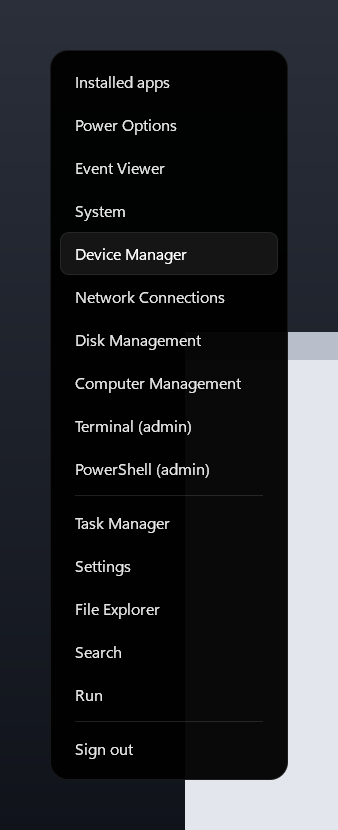
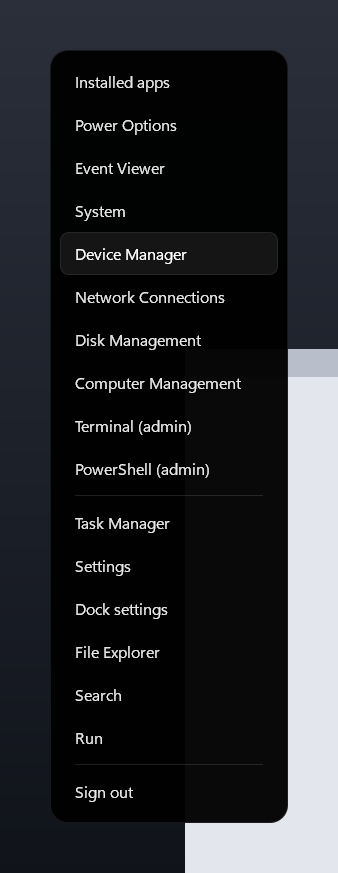
settings: preview PNGs per page, README screenshots, release notes
Claude-Session: https://claude.ai/code/session_01FHR79QShux4vrQ2um6WQC7

diff --git a/src/preview.rs b/src/preview.rs
@@ -7,6 +7,8 @@
 //! build with `DOCK_NO_MANIFEST=1` (manifest without `requireAdministrator`).
 //!
 //! Files produced for each preview: `<name>.png` (DPI 120) and `<name>_96.png` (DPI 96).
+//! The Settings window pages are `settings_<page>.png` (DPI 144), `settings_<page>_96.png` (DPI 96) and
+//! `settings_<page>_it.png` (144, Italian).
 //! Errors go to stderr (the async logger is not started in this mode).
 //!
 //! HOOKs used in other people's files (marked `PREVIEW-HOOK`): `render::snapshot_pixels`,

diff --git a/.github/release-notes/v1.4.0.md b/.github/release-notes/v1.4.0.md
@@ -1,4 +1,4 @@
-Changes since [1.3.0](https://github.com/ops-software/mini-oled-dock/releases/tag/v1.3.0): security and stability fixes from a full review of the code added since 1.0.0.
+Changes since [1.3.0](https://github.com/ops-software/mini-oled-dock/releases/tag/v1.3.0): security and stability fixes from a full review of the code added since 1.0.0, a self-updater, a battery module and a new Settings window.
 
 ### Fixes
 
@@ -15,6 +15,35 @@ Changes since [1.3.0](https://github.com/ops-software/mini-oled-dock/releases/ta
 - **Tray menu placement can no longer stall the tray.** A tray menu that takes too long to place no longer blocks the other tray icons.
 - **`--install` waits for the old watchdog.** The new copy starts only after the old watchdog has stopped, so two watchdogs do not run at the same time.
 
+### Updater
+
+- **Self-updater.** The dock checks GitHub Releases once a day for a newer version. The check makes one request to api.github.com and changes nothing else: when a newer release exists, an orange dot with a count shows on Settings in the power popup, and the Updates page of the Settings window shows the details (check now, release notes, update now). It is on by default (`"update_check": true`; set it to `false` to turn the check off).
+- **Automatic install is off by default.** With `"update_auto_install": true` the dock downloads the release into the admin-only folder `%ProgramData%\mini-oled-dock\update\<tag>\`, checks its SHA-256 and its own `--version`, and runs `--install --quiet` when no popup is open and no fullscreen app is in front. No UAC prompt; the dock restarts from the new copy. The exe is not code-signed: trust rests on HTTPS to github.com and the hash published with the same release.
+- **First step from 1.3.0 or 1.0.0.** Run `dock.exe --install` once from the 1.4.0 exe. Later releases can then reach you through the dock itself.
+- **Add/Remove Programs and real uninstall.** `--install` registers the dock in Add/Remove Programs. `--uninstall --remove` stops the dock, restores the taskbar and deletes the installed copy (a file still in use goes at the next restart); it keeps your settings. `--purge-data` also deletes the data folder.
+- **Installs are atomic and always start the dock.** The new exe is written as `dock.exe.new` and moved over the old one in one step. `--install` waits up to 35 s for the old dock and its watchdog to exit, then starts the new copy (`--no-relaunch` skips the start).
+- **Scripting.** `--quiet` shows no message box, `--version` prints `mini-oled-dock X.Y.Z`, and the exe carries a version resource. Exit codes: 0 success, 1 failure, 2 bad arguments, 3 the running dock could not be stopped.
+- **Diagnostics.** `--update-check` makes one check and prints the result. `--update-install <tag>` verifies and installs a release already staged in its `update\<tag>\` folder, and accepts no other path.
+
+### Battery
+
+- **A battery module for laptops.** An Apple-style battery icon in the bar: the fill follows the charge, a bolt shows while charging, and the percentage sits beside the icon or inside it. The fill is red under 20 % and orange at 10 % and below; while plugged in it is white. The module can be dragged like the others and follows `module_size`.
+- **Popup and click.** Left click opens a popup with the charge, the state (charging, on battery, fully charged, plugged in), the time remaining on battery and the active power plan (Power saver, Balanced or High performance), plus a "Power & battery settings" link. Right click opens `ms-settings:batterysaver` directly.
+- **Options.** `show_battery` is `"auto"` by default (shown only when Windows reports a battery), or `true` / `false`. `battery_percent` (default `true`) shows the percentage and `battery_percent_inside` (default `false`) draws it inside the icon. They are on the Modules page of the Settings window.
+- **A desktop PC sees no change.** With `"auto"` nothing is created on a machine without a battery: no module, no timer.
+- **Cost.** The charge is read every 30 s only while the bar is visible, plus instantly when the charger is plugged in or out. No thread.
+- **Known limitation.** The time to full charge is not shown: Windows only reports the time remaining on battery.
+
+### Settings window
+
+The settings popup had become too full for its size. It is replaced by a real window: power button → **Settings**, Start quick links → **Dock settings**, or `dock.exe --settings`.
+
+- Resizable, dark title bar in the bar's background colour, left navigation: **Appearance** (live preview of the bar, colour, opacity, sizes, language), **Bar**, **Start**, **Modules** (with the new **Battery** group and the tray icon chooser inline), **Screen**, **Updates** (check, release notes, update now, automatic check and install), **About** (memory, data folder, log, exit the dock).
+- Every change still applies at once and is saved to `config.json`. The window remembers its size (`settings_window_size`).
+- `Esc` closes, `Tab` moves between the navigation and the page, `Up`/`Down` change page, the wheel scrolls. The wheel no longer steps a slider under the pointer: it scrolls the page.
+- Nothing of the window stays in memory once it is closed.
+- Automatic install never starts while the window is open.
+
 ### If you are updating from 1.0.0
 
 - **Start button on by default.** Since 1.1.0 a Start button is shown at the left of the bar (the Start button setting, or `"show_start_button": false` in `config.json`). A config file that does not mention it gets the new default.
@@ -29,22 +58,3 @@ Requires Windows 11. Download `dock.exe` and run it from a terminal:
 ```
 
 It asks for administrator rights, copies itself to `%ProgramFiles%\mini-oled-dock` and starts with Windows. To update, run `--install` from the new `dock.exe`: the running dock is stopped and restarted from the new copy. Settings are kept.
-
-### Updates
-
-- **Self-updater.** The dock checks GitHub Releases once a day for a newer version. The check makes one request to api.github.com and changes nothing else: when a newer release exists, an orange dot with a count shows on Settings in the power popup. It is on by default (`"update_check": true`; set it to `false` to turn the check off).
-- **Automatic install is off by default.** With `"update_auto_install": true` the dock downloads the release into the admin-only folder `%ProgramData%\mini-oled-dock\update\<tag>\`, checks its SHA-256 and its own `--version`, and runs `--install --quiet` when no popup is open and no fullscreen app is in front. No UAC prompt; the dock restarts from the new copy. The exe is not code-signed: trust rests on HTTPS to github.com and the hash published with the same release.
-- **First step from 1.3.0 or 1.0.0.** Run `dock.exe --install` once from the 1.4.0 exe. Later releases can then reach you through the dock itself.
-- **Add/Remove Programs and real uninstall.** `--install` registers the dock in Add/Remove Programs. `--uninstall --remove` stops the dock, restores the taskbar and deletes the installed copy (a file still in use goes at the next restart); it keeps your settings. `--purge-data` also deletes the data folder.
-- **Installs are atomic and always start the dock.** The new exe is written as `dock.exe.new` and moved over the old one in one step. `--install` waits up to 35 s for the old dock and its watchdog to exit, then starts the new copy (`--no-relaunch` skips the start).
-- **Scripting.** `--quiet` shows no message box, `--version` prints `mini-oled-dock X.Y.Z`, and the exe carries a version resource. Exit codes: 0 success, 1 failure, 2 bad arguments, 3 the running dock could not be stopped.
-- **Diagnostics.** `--update-check` makes one check and prints the result. `--update-install <tag>` verifies and installs a release already staged in its `update\<tag>\` folder, and accepts no other path.
-
-## Battery
-
-- **A battery module for laptops.** An Apple-style battery icon in the bar: the fill follows the charge, a bolt shows while charging, and the percentage sits beside the icon or inside it. The fill is red under 20 % and orange at 10 % and below; while plugged in it is white. The module can be dragged like the others and follows `module_size`.
-- **Popup and click.** Left click opens a popup with the charge, the state (charging, on battery, fully charged, plugged in), the time remaining on battery and the active power plan (Power saver, Balanced or High performance), plus a "Power & battery settings" link. Right click opens `ms-settings:batterysaver` directly.
-- **Options.** `show_battery` is `"auto"` by default (shown only when Windows reports a battery), or `true` / `false`. `battery_percent` (default `true`) shows the percentage and `battery_percent_inside` (default `false`) draws it inside the icon. They are in the Settings popup, before the Tray switch; the Settings window keeps them on its Modules page.
-- **A desktop PC sees no change.** With `"auto"` nothing is created on a machine without a battery: no module, no timer.
-- **Cost.** The charge is read every 30 s only while the bar is visible, plus instantly when the charger is plugged in or out. No thread.
-- **Known limitation.** The time to full charge is not shown: Windows only reports the time remaining on battery.

diff --git a/README.md b/README.md
@@ -39,13 +39,17 @@ It replaces the native taskbar with a small centred pill that hides when you do 
 |---|---|---|
 | ![](docs/screenshots/bar_battery.png) | ![](docs/screenshots/bar_battery_inside.png) | ![](docs/screenshots/popup_battery.png) |
 
-| Window previews | Tray: choose visible icons | Settings |
+| Window previews | Tray: choose visible icons | Settings: Appearance |
 |---|---|---|
-| ![](docs/screenshots/popup_windows.png) | ![](docs/screenshots/popup_tray_customize.png) | ![](docs/screenshots/popup_settings.png) |
+| ![](docs/screenshots/popup_windows.png) | ![](docs/screenshots/popup_tray_customize.png) | ![](docs/screenshots/settings_appearance.png) |
 
-| Settings: screen | Settings: follow the pointer | Settings: Start menu | Settings in Italian |
-|---|---|---|---|
-| ![](docs/screenshots/popup_settings_screen.png) | ![](docs/screenshots/popup_settings_pointer.png) | ![](docs/screenshots/popup_settings_startmenu.png) | ![](docs/screenshots/popup_settings_it.png) |
+| Settings: Bar | Settings: Start | Settings: Modules |
+|---|---|---|
+| ![](docs/screenshots/settings_bar.png) | ![](docs/screenshots/settings_start.png) | ![](docs/screenshots/settings_modules.png) |
+
+| Settings: Screen | Settings: Updates | Settings: About |
+|---|---|---|
+| ![](docs/screenshots/settings_screen.png) | ![](docs/screenshots/settings_updates.png) | ![](docs/screenshots/settings_about.png) |
 
 ## Features
 
@@ -85,7 +89,7 @@ It replaces the native taskbar with a small centred pill that hides when you do 
 
 ### Settings and system
 
-- **Settings popup** (from the power button): every option, applied live and saved to a commented JSON config that also reloads on its own when edited by hand.
+- **Settings window** (power button → **Settings**, Start quick links → **Dock settings**, or `dock.exe --settings`): seven pages (Appearance, Bar, Start, Modules, Screen, Updates, About), every option applied live and saved to the commented `config.json`, which also reloads on its own when edited by hand.
 - **Language:** System (follows Windows), English or Italian, applied at once, clock and calendar included.
 - Autostart without UAC prompts (scheduled task).
 - Watchdog process that always restores the native taskbar.
@@ -135,11 +139,16 @@ If you installed an older version, an old copy may be left in `%LOCALAPPDATA%\Do
 - **Network:** left click opens the network popup (connection, internet, IPv4, signal, "Network settings"); right click opens Windows' network settings.
 - **Battery:** left click opens the battery popup (charge, state, time remaining on battery, power plan, "Power & battery settings"); right click opens Windows' battery saver settings. The wheel is not used.
 - **System metrics:** click opens Task Manager.
-- **Settings:** power button, then **Settings**: position, screen (with two or more displays: **Main**, the display number or **Pointer**), display mode, auto-hide, window previews, clock seconds, one switch per module, **Choose tray icons** (which tray icons stay in the bar) and two sub-pages:
-  - **Background ›**: seven dark presets (Black, Graphite, Slate, Navy, Plum, Wine, Forest) and a custom swatch that opens a colour picker (saturation/value square, hue strip, preview and hex code; drag to pick), plus the **Opacity** slider (0-100 %, background only: at 0 % only text and icons are visible and the bar still reacts to the mouse).
-  - **Sizes ›**: sliders for app icons, app names, tray icons and modules, and **Reset sizes**.
+- **Settings window:** power button, then **Settings** (or Start quick links → **Dock settings**, or `dock.exe --settings`). Resizable, with a dark title bar in the bar's colour and a navigation on the left; `Esc` closes, `Tab` moves between the navigation and the page, `Up`/`Down` change page.
+  - **Appearance:** a live preview of the bar, the background colour (seven dark presets: Black, Graphite, Slate, Navy, Plum, Wine, Forest, and a custom swatch that opens a colour picker with saturation/value square, hue strip, preview and hex code), the **Opacity** slider (0-100 %, background only: at 0 % only text and icons are visible and the bar still reacts to the mouse), sliders for app icons, app names, tray icons and modules, **Reset sizes**, and the language.
+  - **Bar:** position, display mode, auto-hide, window previews, clock seconds, volume percent.
+  - **Start:** the Start button, the Start layout, Win key opens Start, and the import of pinned apps from Windows Start.
+  - **Modules:** one switch per module, the **Battery** group (show: Auto, On or Off; percentage; percentage inside the icon) and the tray icon chooser, inline.
+  - **Screen:** which display the bar sits on (**Main**, the display number, or **Pointer**).
+  - **Updates:** installed and available version, last check, **Check now**, **Release notes**, **Update now**, and the switches for the daily check and the automatic install.
+  - **About:** version, memory, the data folder and the log, and **Exit the dock** (restores the Windows taskbar).
 
-  Sliders follow a drag or a click on the track, and the mouse wheel (opacity and modules in steps of 5 %, the others 1 px). Every change applies at once and is saved to `config.json` (the comments are kept); while you drag, the file is written when you release the button.
+  Sliders follow a drag or a click on the track; the mouse wheel scrolls the page. Every change applies at once and is saved to `config.json` (the comments are kept); while you drag, the file is written when you release the button. The window remembers its size (`settings_window_size`).
 - **Updates:** an orange dot on Settings in the power popup means a new release is available.
 - **Exit:** `Ctrl+Alt+Q`, or the power popup, or `dock.exe --restore`.
 
